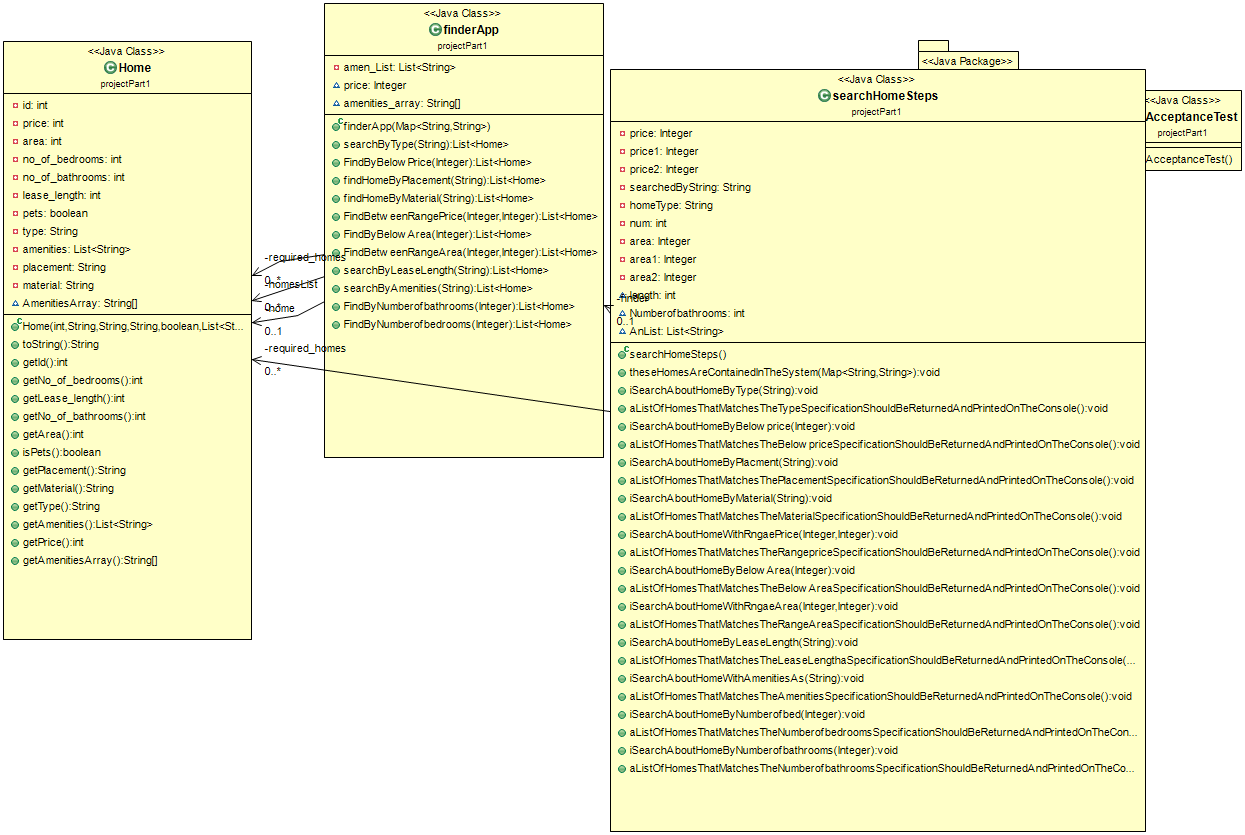
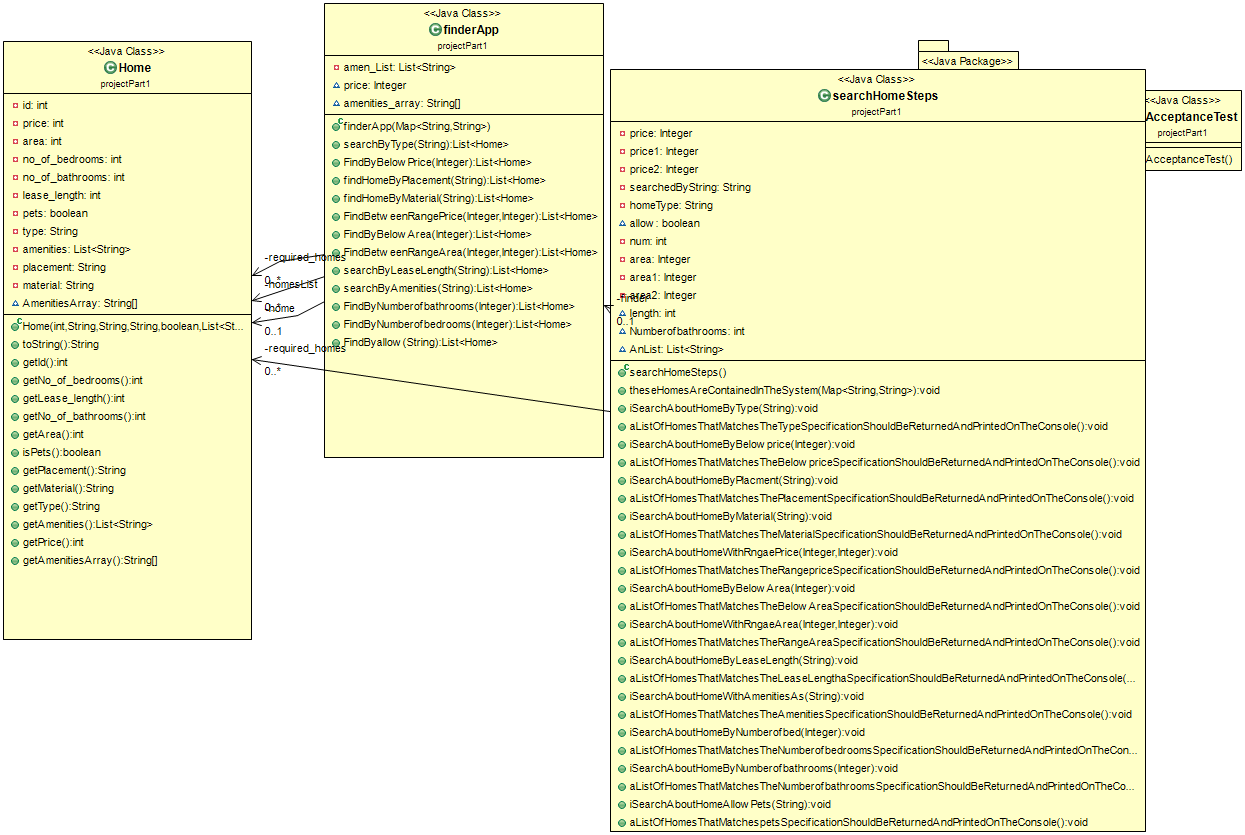
Rola add scenario 9

Changed region(s): [[0.4884, 0.3425, 0.9157, 0.9964], [0.2747, 0.4048, 0.3968, 0.4359], [0.4884, 0.2491, 0.5494, 0.3114]]

diff --git a/src/test/java/projectPart1/searchHomeSteps.java b/src/test/java/projectPart1/searchHomeSteps.java
@@ -15,7 +15,8 @@ public class searchHomeSteps {
 	private Integer price , price1 , price2;
 	private  java.util.List<Home> required_homes;
 	private String searchedByString;
-	private String homeType;
+	private String homeType ;
+	boolean allow;
 	private int num=1;
 	private finderApp finder;
 	private Integer area , area1 , area2;
@@ -278,7 +279,29 @@ public class searchHomeSteps {
 			}
 			}
 			
-			
+			@When("I search about home that {string} allow pets")
+			public void iSearchAboutHomeAllowPets(String str) {
+			    // Write code here that turns the phrase above into concrete actions
+				
+				if(str.equalsIgnoreCase("yes"))
+				{
+					
+					allow=true;
+					
+				}
+				else {
+					allow=false;
+				}
+				required_homes=finder.FindByallow(str);
+			}
+
+			@Then("A list of homes that matches Allow Pets specification should be returned and printed on the console")
+			public void aListOfHomesThatMatchespetsSpecificationShouldBeReturnedAndPrintedOnTheConsole() {
+			    // Write code here that turns the phrase above into concrete actions
+				for(int i=0;i<required_homes.size();i++) {
+					assertTrue((required_homes.get(i).isPets() && allow)||(!required_homes.get(i).isPets() && !allow));
+			}
+			}
 		
 		
 

diff --git a/src/main/java/projectPart1/finderApp.java b/src/main/java/projectPart1/finderApp.java
@@ -237,6 +237,29 @@ public class finderApp {
 		}
 		return this.required_homes;	}
 
+	public List<Home> FindByallow(String str) {
+		boolean allow;
+		if(str.equalsIgnoreCase("yes"))
+		{
+			
+			allow=true;
+			
+		}
+		else {
+			allow=false;
+		}
+		
+		required_homes=new ArrayList<Home>();
+		System.out.println("List of homes that has pets premisstion as  \""+str+"\" ");
+		for(int i=0;i<homesList.size();i++) {
+			if((homesList.get(i).isPets() && allow)||(!homesList.get(i).isPets() && !allow)) {
+				required_homes.add(homesList.get(i));
+				System.out.println(Integer.toString(required_homes.size())+"-"+" "+homesList.get(i));
+			}
+		}
+		return this.required_homes;
+	}
+
 	
 	
 	
